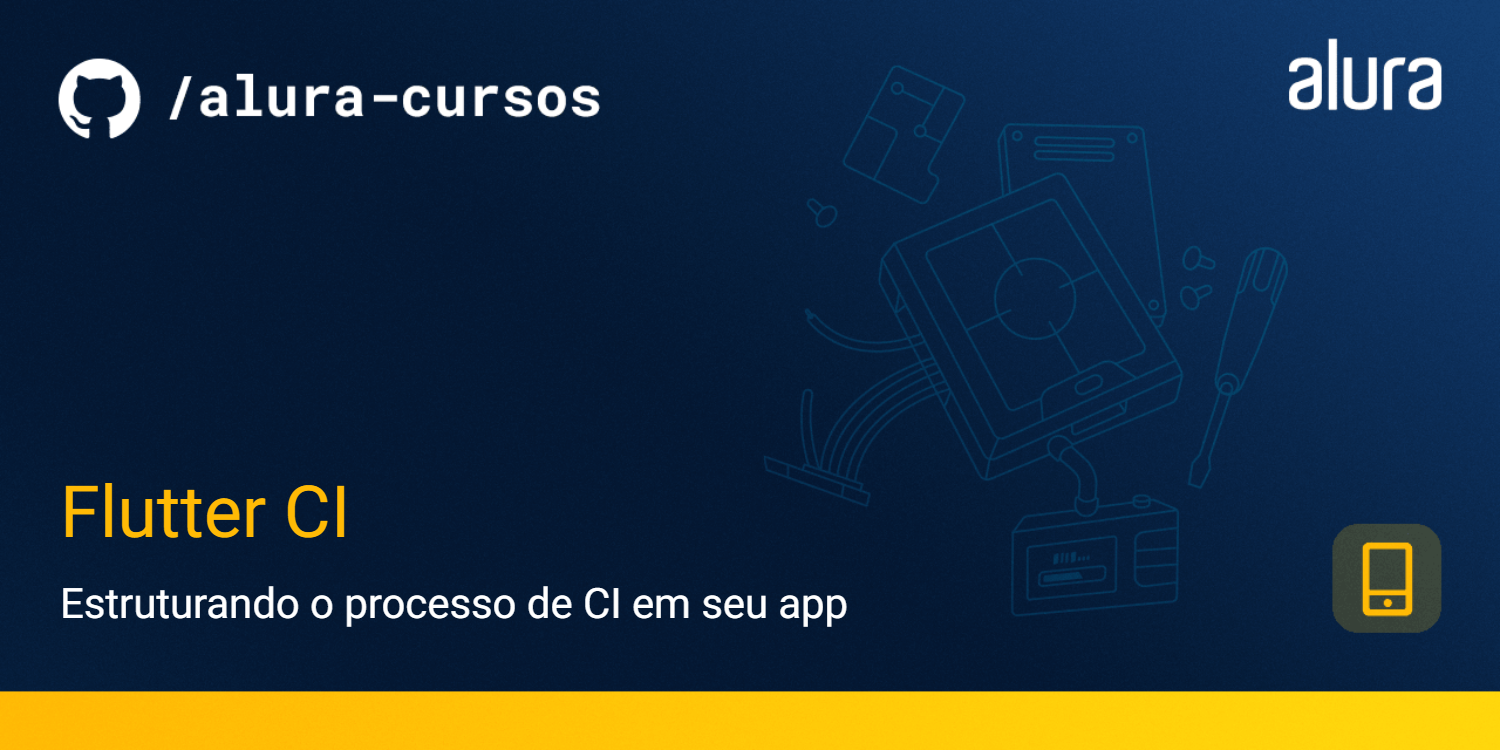
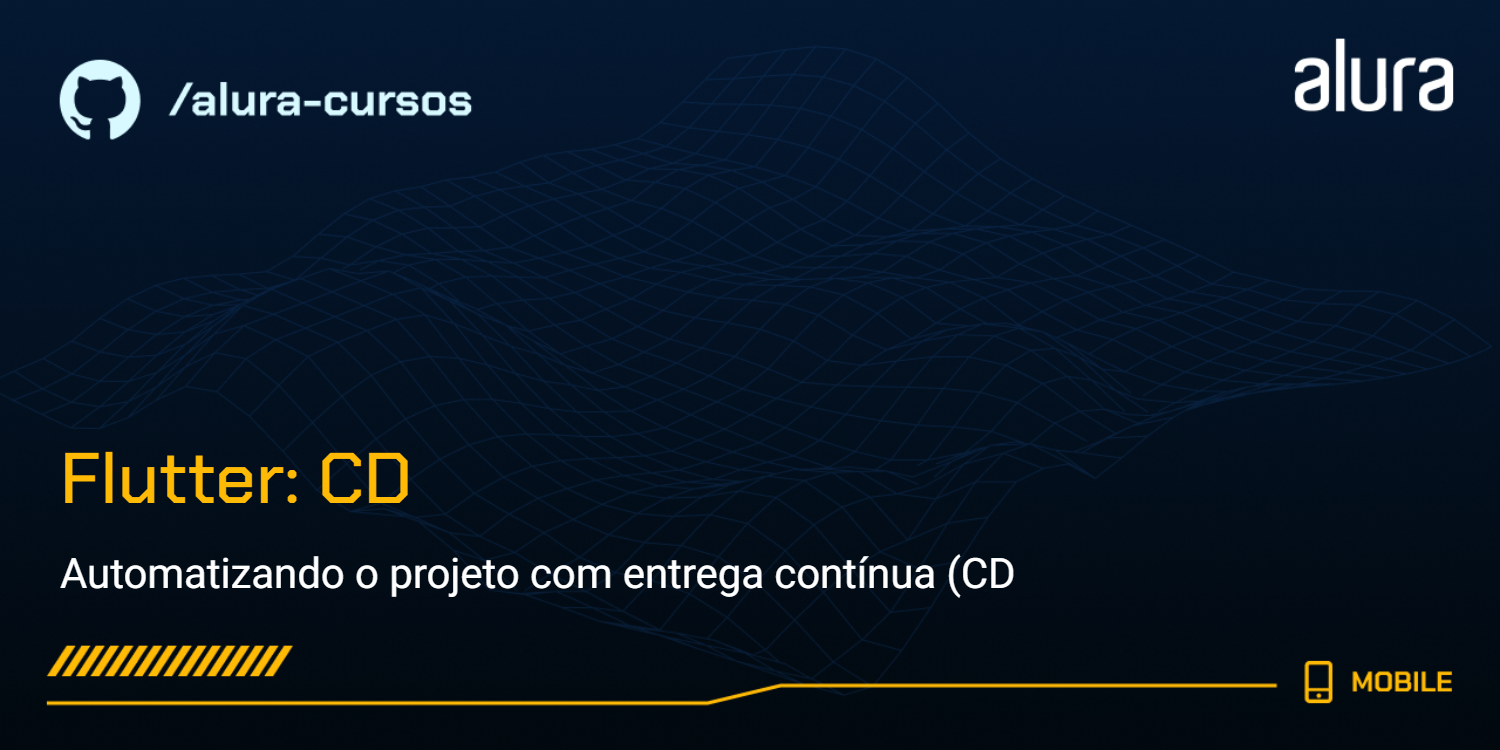
fix: readme

diff --git a/README.md b/README.md
@@ -1,12 +1,12 @@
 ![Mobile-Flutter: Flutter CI](capa.png)
 
-# Flutter: Integração Contínua
+# Flutter: Entrega contínua
 
-Projeto Sorteador de amigo secreto para o curso Flutter CI.
+Projeto Sorteador de amigo secreto para o curso Flutter CD.
 
 ### Tópicos abordados no curso:
 
-- Integração contínua;
+- Entrega contínua;
 - Pipelines;
 
 Este curso é indicado para pessoas que já tem conhecimento intermediário e querem aprofundar seu conhecimento em Flutter, elevando a qualidade da suas entregas, reduzindo a quantidade de bugs e garantido uma melhor escrita de código.
